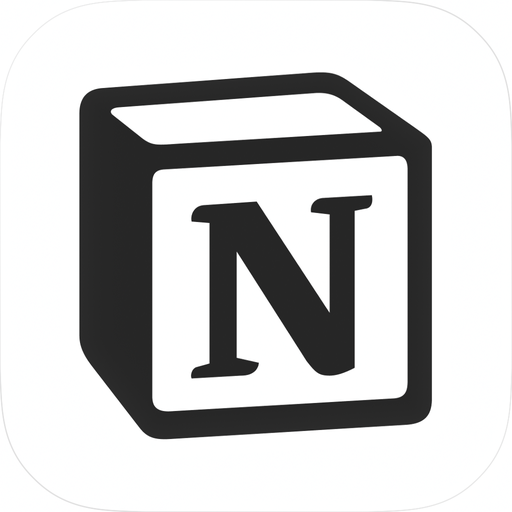
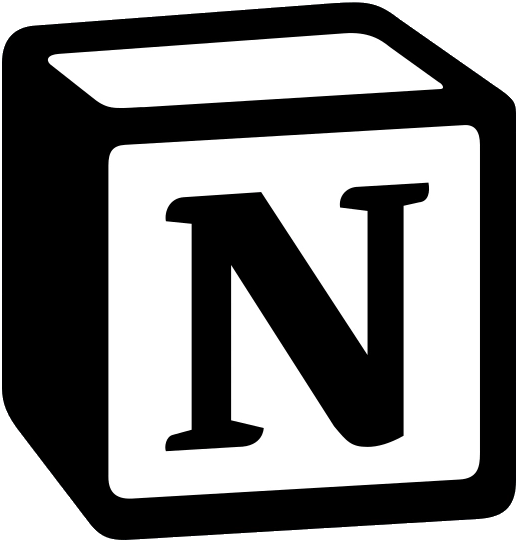
Update apps on uses page

diff --git a/src/app/uses/tools.ts b/src/app/uses/tools.ts
@@ -25,12 +25,13 @@ import hueBulb from '@/images/uses/hue-bulb.png'
 import sonosEra100 from '@/images/uses/sonos-era-100.png'
 import lgOled from '@/images/uses/lg-oled.png'
 import appBevel from '@/images/uses/app-bevel.png'
-import appCursor from '@/images/uses/app-cursor.png'
-import appCursorDark from '@/images/uses/dark/app-cursor.png'
+import appCodex from '@/images/uses/app-codex.png'
 import appFigma from '@/images/uses/app-figma.png'
 import appFinalCut from '@/images/uses/app-finalcut.png'
 import appLightroom from '@/images/uses/app-lightroom.png'
 import appNotion from '@/images/uses/app-notion.png'
+import appScreenStudio from '@/images/uses/app-screen-studio.png'
+import appSuperhumanMail from '@/images/uses/app-superhuman-mail.jpg'
 
 export type ToolKind = 'device' | 'app'
 
@@ -40,6 +41,7 @@ export type ToolItem = {
   description: string
   image: StaticImageData
   imageDark?: StaticImageData
+  imageClassName?: string
   kind: ToolKind
   rotate: number
   scale?: number
@@ -264,30 +266,10 @@ export const toolGroups: ToolGroup[] = [
     title: 'Apps',
     tools: [
       {
-        title: 'Bevel',
-        href: 'https://join.bevel.health/U444GM',
-        description:
-          'I use this for various health metrics to extend Apple Health, including fitness tracking, food logging, and sleep.',
-        image: appBevel,
-        kind: 'app',
-        rotate: 0,
-      },
-      {
-        title: 'Cursor',
-        href: 'https://www.cursor.com/',
-        description:
-          'My primary IDE for software development and AI-assisted coding.',
-        image: appCursor,
-        imageDark: appCursorDark,
-        kind: 'app',
-        rotate: 0,
-      },
-      {
-        title: 'Figma',
-        href: 'https://www.figma.com/',
-        description:
-          'Where I explore interfaces and turn ideas into visual direction, also video titles, thumbnails, and the occasional animation.',
-        image: appFigma,
+        title: 'OpenAI Codex',
+        href: 'https://openai.com/codex/',
+        description: 'My primary coding agent for software development.',
+        image: appCodex,
         kind: 'app',
         rotate: 0,
       },
@@ -300,11 +282,20 @@ export const toolGroups: ToolGroup[] = [
         rotate: 0,
       },
       {
-        title: 'Lightroom',
-        href: 'https://www.adobe.com/products/photoshop-lightroom.html',
+        title: 'Screen Studio',
+        href: 'https://screen.studio/',
+        description: 'For recording polished screen demos and walkthroughs.',
+        image: appScreenStudio,
+        imageClassName: 'scale-[1.21]',
+        kind: 'app',
+        rotate: 0,
+      },
+      {
+        title: 'Figma',
+        href: 'https://www.figma.com/',
         description:
-          'Where I finish stills from the a7C II. Gives me additional fine-grain control over my images.',
-        image: appLightroom,
+          'What started as UI design turned into a versatile tool for anything design-related: video thumbnails, titles, and more.',
+        image: appFigma,
         kind: 'app',
         rotate: 0,
       },
@@ -313,6 +304,35 @@ export const toolGroups: ToolGroup[] = [
         href: 'https://www.notion.so/',
         description: 'Planning, notes, and systems.',
         image: appNotion,
+        imageClassName: 'scale-[0.96]',
+        kind: 'app',
+        rotate: 0,
+      },
+      {
+        title: 'Superhuman Mail',
+        href: 'https://superhuman.com/brianruizy',
+        description:
+          'Seriously, the fastest email app I\'ve used. Inbox Zero is a game changer.',
+        image: appSuperhumanMail,
+        kind: 'app',
+        rotate: 0,
+      },
+      {
+        title: 'Lightroom',
+        href: 'https://www.adobe.com/products/photoshop-lightroom.html',
+        description:
+          'Oh, Adobe. Love it or hate it, nothing like it for full control of your images and getting the best edits.',
+        image: appLightroom,
+        imageClassName: 'scale-[1.17]',
+        kind: 'app',
+        rotate: 0,
+      },
+      {
+        title: 'Bevel',
+        href: 'https://join.bevel.health/U444GM',
+        description:
+          'I use this for various health metrics to extend Apple Health, including fitness tracking, food logging, and sleep.',
+        image: appBevel,
         kind: 'app',
         rotate: 0,
       },

diff --git a/src/components/Sticker.tsx b/src/components/Sticker.tsx
@@ -15,6 +15,7 @@ export function Sticker({
   size = 'md',
   variant = 'device',
   scale = 1,
+  imageClassName,
   className,
 }: {
   src: StaticImageData
@@ -24,6 +25,7 @@ export function Sticker({
   size?: keyof typeof sizes
   variant?: 'device' | 'app'
   scale?: number
+  imageClassName?: string
   className?: string
 }) {
   let imageSizes = size === 'sm' ? '3rem' : '(min-width: 640px) 4.25rem, 3.5rem'
@@ -45,8 +47,10 @@ export function Sticker({
           width={32}
           height={32}
           sizes={imageSizes}
+          unoptimized={src.src.startsWith('https://')}
           className={cn(
             'size-8 rounded-md object-contain',
+            imageClassName,
             srcDark && 'dark:hidden',
           )}
         />

diff --git a/src/app/uses/page.tsx b/src/app/uses/page.tsx
@@ -30,6 +30,7 @@ function Tool({
   description,
   image,
   imageDark,
+  imageClassName,
   kind,
   rotate,
   scale,
@@ -41,6 +42,7 @@ function Tool({
         <Sticker
           src={image}
           srcDark={imageDark}
+          imageClassName={imageClassName}
           alt=""
           rotate={kind === 'app' ? 0 : rotate}
           scale={scale}
